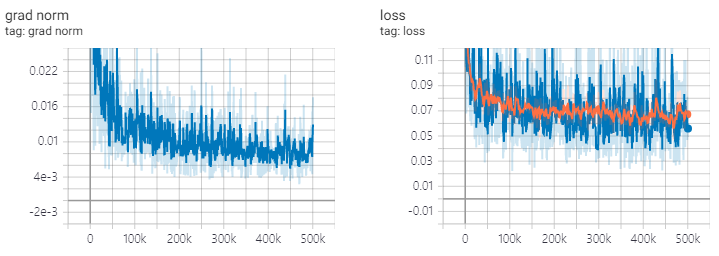
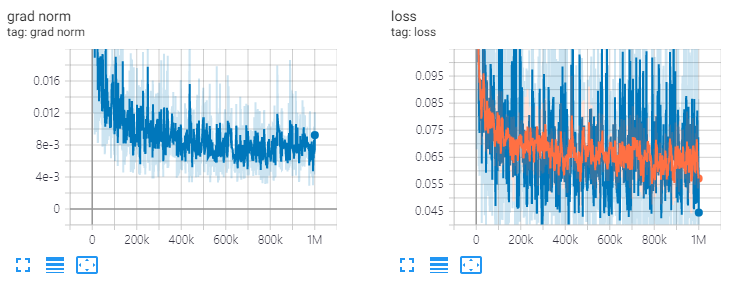
readme: Update loss

diff --git a/README.md b/README.md
@@ -9,9 +9,9 @@ Tested in python 3.7.3 conda environment, [requirements.txt](./requirements.txt)
 
 ## Usage
 
-For downloading LJ-Speech dataset, in python prompt, run under commands.
+To download LJ-Speech dataset, run under script.
 
-Dataset will be downloaded in '~/tensorflow_datasets' in tfrecord format. If you want to change the download directory, specify `data_dir` parameter of LJSpeech initializer.
+Dataset will be downloaded in '~/tensorflow_datasets' in tfrecord format. If you want to change the download directory, specify `data_dir` parameter of `LJSpeech` initializer.
 
 ```python
 from dataset import LJSpeech
@@ -53,7 +53,7 @@ python .\inference.py
 
 Pretrained checkpoints are relased on [releases](https://github.com/revsic/tf-diffwave/releases).
 
-To use pretrained model, download files and unzip it. Followings are sample code.
+To use pretrained model, download files and unzip it. Followings are sample script.
 
 ```py
 with open('l1.json') as f:
@@ -65,7 +65,7 @@ diffwave.restore('./l1_500k/l1_500000.ckpt-1').expect_partial()
 
 ## Learning Curve
 
-res.channels=64, T=20, train 500k steps.
+res.channels=64, T=20, train 1M steps.
 
 ![loss](./rsrc/loss.png)
 
